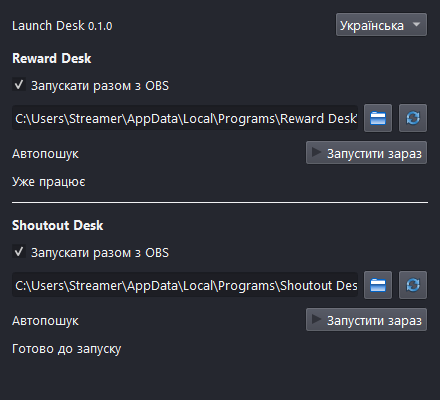
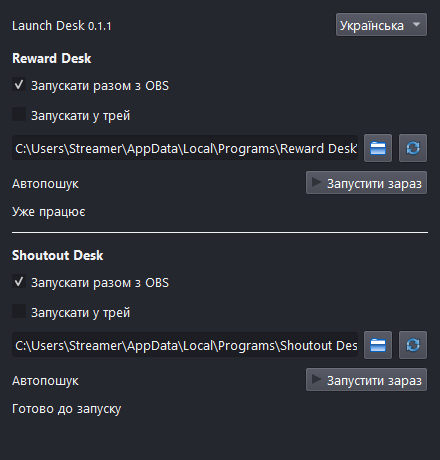
Add per-app tray startup selection with preserved settings

diff --git a/tests/tests.cpp b/tests/tests.cpp
@@ -23,6 +23,10 @@ int main(int argc, char **argv) {
 	QString language = "ru";
 	check(entries.size() == 2 && !entries[0].enabled && !entries[1].enabled, "no unsolicited autostart");
 	check(loadConfig(file, entries, language), "new settings");
+	check(!entries[0].inTray && !entries[1].inTray, "new profiles default to normal windows");
+	check(launchArguments(entries[0]) == "--start-window", "normal window argument");
+	entries[0].inTray = true;
+	check(launchArguments(entries[0]) == "--start-tray", "tray argument");
 	entries[0].path = "D:/Portable/RewardDesk.exe";
 	entries[0].automatic = false;
 	entries[0].enabled = true;
@@ -31,10 +35,35 @@ int main(int argc, char **argv) {
 	check(loadConfig(file, loaded, language) && language == "uk", "load language");
 	check(loaded[0].enabled && !loaded[0].automatic && loaded[0].path == entries[0].path, "manual path retained");
 	check(!loaded[1].enabled, "disabled state retained");
+	check(loaded[0].inTray && !loaded[1].inTray, "independent tray modes retained");
+	QFile legacy(file);
+	check(legacy.open(QIODevice::ReadOnly), "read migration fixture");
+	auto legacyObject = QJsonDocument::fromJson(legacy.readAll()).object(); legacy.close();
+	legacyObject["schema"] = 1;
+	QJsonArray oldRows;
+	for (auto value : legacyObject["apps"].toArray()) { auto row = value.toObject(); row.remove("inTray"); oldRows.append(row); }
+	legacyObject["apps"] = oldRows;
+	const auto legacyBytes = QJsonDocument(legacyObject).toJson();
+	check(legacy.open(QIODevice::WriteOnly) && legacy.write(legacyBytes) == legacyBytes.size(), "write version 1 fixture"); legacy.close();
+	check(loadConfig(file, loaded, language), "old profile accepted");
+	check(!loaded[0].inTray && loaded[1].inTray && loaded[0].enabled && !loaded[0].automatic && loaded[0].path == entries[0].path && language == "uk", "old profile preserves modes paths switches and language");
+	check(legacy.open(QIODevice::ReadOnly) && legacy.readAll() == legacyBytes, "loading never rewrites old profile"); legacy.close();
+	{
+		LaunchDock migrated(temp.path() + "/profile", "en");
+		auto *rewardTray = migrated.findChild<QCheckBox *>("reward-desk-tray");
+		auto *shoutoutTray = migrated.findChild<QCheckBox *>("shoutout-desk-tray");
+		check(rewardTray && shoutoutTray && !rewardTray->isChecked() && shoutoutTray->isChecked(), "legacy tray controls match previous behavior");
+		rewardTray->setChecked(true); shoutoutTray->setChecked(false);
+		check(loadConfig(file, loaded, language) && loaded[0].inTray && !loaded[1].inTray && loaded[0].enabled && loaded[0].path == entries[0].path, "checkboxes persist independently without changing autostart or path");
+	}
+	legacyObject["schema"] = 2;
+	check(legacy.open(QIODevice::WriteOnly), "write invalid mode fixture"); legacy.write(QJsonDocument(legacyObject).toJson()); legacy.close();
+	check(!loadConfig(file, loaded, language), "new schema without tray fields fails closed");
 	QFile corrupt(file); check(corrupt.open(QIODevice::WriteOnly), "corrupt fixture"); corrupt.write("{bad"); corrupt.close();
 	check(!loadConfig(file, loaded, language) && loaded[0].enabled, "corruption never silently resets settings");
 	LaunchDock broken(temp.path() + "/profile", "ru");
 	check(!broken.findChild<QCheckBox *>("reward-desk-enabled")->isEnabled(), "corrupt profile disables controls");
+	check(!broken.findChild<QCheckBox *>("reward-desk-tray")->isEnabled(), "corrupt profile disables tray mode");
 	check(corrupt.open(QIODevice::ReadOnly) && corrupt.readAll() == "{bad", "corrupt file preserved"); corrupt.close();
 	check(!validExecutable("cmd.exe") && !validExecutable("https://example.com/a.exe") && !validExecutable("\\\\server\\app.exe"), "non-local paths rejected");
 	const auto exe = QCoreApplication::applicationDirPath() + "/launch-fixture.exe";
@@ -44,7 +73,7 @@ int main(int argc, char **argv) {
 	check(startApp(AppEntry{"test", "test", "no.exe", "", temp.path() + "/no.exe"}) != "running", "missing executable not launched");
 	for (const auto locale : {"ru", "uk", "en"}) {
 		LaunchDock dock(temp.path() + "/ui", locale, true);
-		check(!dock.text("auto").isEmpty() && dock.text("auto") != "auto", "localized labels");
+		check(!dock.text("auto").isEmpty() && dock.text("auto") != "auto" && dock.text("tray") != "tray", "localized labels");
 		check(dock.findChild<QLineEdit *>("reward-desk-path")->isReadOnly(), "path cannot inject arguments");
 		dock.resize(320, 460); dock.show(); app.processEvents();
 		for (auto *button : dock.findChildren<QPushButton *>()) check(button->geometry().right() <= button->parentWidget()->width(), "narrow dock controls fit");

diff --git a/src/dock.cpp b/src/dock.cpp
@@ -14,6 +14,7 @@
 QString LaunchDock::text(const QString &key) const {
 	static const QMap<QString, std::array<QString, 3>> copy = {
 		{"auto", {"Запускать вместе с OBS", "Запускати разом з OBS", "Start with OBS"}},
+		{"tray", {"Запускать в трей", "Запускати у трей", "Start in system tray"}},
 		{"detected", {"Автопоиск", "Автопошук", "Auto-detected"}},
 		{"manual", {"Выбран вручную", "Вибрано вручну", "Manual selection"}},
 		{"browse", {"Выбрать EXE", "Вибрати EXE", "Choose EXE"}},
@@ -48,7 +49,7 @@ LaunchDock::LaunchDock(const QString &profile, const QString &locale, bool previ
 	layout->setSpacing(12);
 	setMinimumWidth(280);
 	auto *heading = new QHBoxLayout;
-	auto *title = new QLabel("Launch Desk <small>0.1.0</small>");
+	auto *title = new QLabel("Launch Desk <small>0.1.1</small>");
 	heading->addWidget(title, 1);
 	languages = new QComboBox;
 	languages->setObjectName("language");
@@ -71,6 +72,11 @@ LaunchDock::LaunchDock(const QString &profile, const QString &locale, bool previ
 		row.enabled->setChecked(entry.enabled);
 		row.enabled->setEnabled(valid);
 		section->addWidget(row.enabled);
+		row.inTray = new QCheckBox;
+		row.inTray->setObjectName(entry.id + "-tray");
+		row.inTray->setChecked(entry.inTray);
+		row.inTray->setEnabled(valid);
+		section->addWidget(row.inTray);
 		row.path = new QLineEdit(entry.path);
 		row.path->setObjectName(entry.id + "-path");
 		row.path->setReadOnly(true);
@@ -102,6 +108,7 @@ LaunchDock::LaunchDock(const QString &profile, const QString &locale, bool previ
 		layout->addLayout(section);
 		if (index == 0) { auto *line = new QFrame; line->setFrameShape(QFrame::HLine); layout->addWidget(line); }
 		connect(row.enabled, &QCheckBox::toggled, this, [this, index](bool value) { apps[index].enabled = value; persist(); });
+		connect(row.inTray, &QCheckBox::toggled, this, [this, index](bool value) { apps[index].inTray = value; persist(); });
 		connect(row.browse, &QPushButton::clicked, this, [this, index] {
 			const auto selected = QFileDialog::getOpenFileName(this, text("browse"), QFileInfo(apps[index].path).absolutePath(), apps[index].exe + " (" + apps[index].exe + ")");
 			if (selected.isEmpty()) return;
@@ -132,7 +139,7 @@ void LaunchDock::persist() {
 	if (!saveConfig(file, apps, language)) {
 		valid = false;
 		notice->setText(text("saveError")); notice->show();
-		for (auto &row : rows) { row.enabled->setEnabled(false); row.browse->setEnabled(false); row.detect->setEnabled(false); row.launch->setEnabled(false); }
+		for (auto &row : rows) { row.enabled->setEnabled(false); row.inTray->setEnabled(false); row.browse->setEnabled(false); row.detect->setEnabled(false); row.launch->setEnabled(false); }
 	}
 }
 
@@ -142,6 +149,7 @@ void LaunchDock::refresh() {
 	for (int i = 0; i < rows.size(); ++i) {
 		auto &row = rows[i];
 		row.enabled->setText(text("auto"));
+		row.inTray->setText(text("tray"));
 		row.path->setText(apps[i].path); row.path->setCursorPosition(0); row.path->setToolTip(apps[i].path);
 		row.path->setAccessibleName(apps[i].name + " EXE");
 		row.mode->setText(text(apps[i].automatic ? "detected" : "manual"));

diff --git a/src/launcher.cpp b/src/launcher.cpp
@@ -84,7 +84,8 @@ bool loadConfig(const QString &file, QVector<AppEntry> &apps, QString &language)
 	QJsonParseError error;
 	const auto doc = QJsonDocument::fromJson(input.readAll(), &error);
 	const auto object = doc.object();
-	if (error.error != QJsonParseError::NoError || object.value("schema").toInt() != 1 || !object.value("apps").isArray()) return false;
+	const int schema = object.value("schema").toInt();
+	if (error.error != QJsonParseError::NoError || (schema != 1 && schema != 2) || !object.value("apps").isArray()) return false;
 	auto next = defaults();
 	const auto records = object.value("apps").toArray();
 	if (records.size() != next.size()) return false;
@@ -97,6 +98,8 @@ bool loadConfig(const QString &file, QVector<AppEntry> &apps, QString &language)
 			app.path = row.value("path").toString();
 			app.enabled = row.value("enabled").toBool();
 			app.automatic = row.value("automatic").toBool();
+			if (schema == 2 && !row.value("inTray").isBool()) return false;
+			app.inTray = schema == 1 ? app.id == "shoutout-desk" : row.value("inTray").toBool();
 			++matches;
 		}
 		if (matches != 1) return false;
@@ -112,9 +115,9 @@ bool loadConfig(const QString &file, QVector<AppEntry> &apps, QString &language)
 bool saveConfig(const QString &file, const QVector<AppEntry> &apps, const QString &language) {
 	if (!QDir().mkpath(QFileInfo(file).absolutePath())) return false;
 	QJsonArray rows;
-	for (const auto &app : apps) rows.append(QJsonObject{{"id", app.id}, {"path", app.path}, {"enabled", app.enabled}, {"automatic", app.automatic}});
+	for (const auto &app : apps) rows.append(QJsonObject{{"id", app.id}, {"path", app.path}, {"enabled", app.enabled}, {"automatic", app.automatic}, {"inTray", app.inTray}});
 	QSaveFile output(file);
-	const auto bytes = QJsonDocument(QJsonObject{{"schema", 1}, {"language", language}, {"apps", rows}}).toJson();
+	const auto bytes = QJsonDocument(QJsonObject{{"schema", 2}, {"language", language}, {"apps", rows}}).toJson();
 	return output.open(QIODevice::WriteOnly) && output.write(bytes) == bytes.size() && output.commit();
 }
 
@@ -186,6 +189,11 @@ static HRESULT launchThroughDesktop(const QString &path, const QString &argument
 	return hr;
 }
 
+// Explicit arguments override only this launch, never the application's saved preference.
+QString launchArguments(const AppEntry &entry) {
+	return entry.inTray ? "--start-tray" : "--start-window";
+}
+
 // A per-product mutex serializes launches across multiple OBS instances.
 QString startApp(const AppEntry &entry) {
 	if (!sameDesktopUser()) return "identity";
@@ -204,7 +212,7 @@ QString startApp(const AppEntry &entry) {
 		const HRESULT initialized = CoInitializeEx(nullptr, COINIT_APARTMENTTHREADED);
 		if (FAILED(initialized) && initialized != RPC_E_CHANGED_MODE) result = "failed";
 		else {
-			const auto hr = launchThroughDesktop(entry.path, entry.id == "shoutout-desk" ? "--start-tray" : "");
+			const auto hr = launchThroughDesktop(entry.path, launchArguments(entry));
 			result = SUCCEEDED(hr) ? "starting" : "failed";
 			if (SUCCEEDED(hr)) {
 				for (int attempt = 0; attempt < 50; ++attempt) {

diff --git a/src/launcher.hpp b/src/launcher.hpp
@@ -8,6 +8,7 @@ struct AppEntry {
 	QString path;
 	bool enabled = false;
 	bool automatic = true;
+	bool inTray = false;
 };
 
 QVector<AppEntry> defaults();
@@ -19,3 +20,4 @@ bool saveConfig(const QString &file, const QVector<AppEntry> &apps, const QStrin
 enum class ProcessState { Absent, Running, DifferentCopy, Unknown };
 ProcessState processState(const QString &path);
 QString startApp(const AppEntry &entry);
+QString launchArguments(const AppEntry &entry);

diff --git a/tests/preview.cpp b/tests/preview.cpp
@@ -23,7 +23,7 @@ int main(int argc, char **argv) {
 	LaunchDock dock("", args.value(1, "en"), true);
 	dock.setAttribute(Qt::WA_DontShowOnScreen);
 	dock.setWindowTitle("Launch Desk OBS");
-	dock.resize(440, 400);
+	dock.resize(440, 460);
 	dock.show();
 	QTimer::singleShot(100, &app, [&] {
 		const auto path = args.value(2);

diff --git a/src/dock.hpp b/src/dock.hpp
@@ -18,7 +18,7 @@ public:
 	QString text(const QString &key) const;
 private:
 	struct Row {
-		QCheckBox *enabled;
+		QCheckBox *enabled, *inTray;
 		QLabel *mode, *status;
 		QLineEdit *path;
 		QPushButton *browse, *detect, *launch;

diff --git a/README.md b/README.md
@@ -15,6 +15,7 @@ A small OBS dock that starts the standalone **Reward Desk** and **Shoutout Desk*
 3. Open OBS, then **Docks > Launch Desk**. Registered installations are detected automatically.
 4. For a portable or moved app, choose its **RewardDesk.exe** or **ShoutoutDesk.exe** using the folder button. Do not select the installer or an OBS plugin.
 5. Enable **Start with OBS** separately for each app. Initially both switches are off. Changes are saved immediately and take effect at the next OBS start. **Start now** launches without restarting OBS.
+6. Choose **Start in system tray** independently for each app. Checked opens only the tray icon; unchecked opens the normal window. Requires Reward Desk 0.10.2+ and Shoutout Desk 0.7.1+.
 
 ## Behavior
 
@@ -22,7 +23,7 @@ A small OBS dock that starts the standalone **Reward Desk** and **Shoutout Desk*
 - Checks running processes before launching; skips an existing instance or another copy of the same executable name.
 - Automatic paths are detected on each OBS start. Manually selected paths are preserved; moving a portable folder requires selecting its new EXE.
 - Uses the Windows Explorer desktop user, without requesting administrator rights for the apps. If OBS runs as a different Windows user, launching is blocked to avoid opening the wrong profile.
-- Shoutout Desk opens in its tray mode. Reward Desk currently opens its normal window.
+- Each app can start normally or in the system tray. The selection also applies to **Start now** and never hides an app that is already running. Old 0.1.0 settings retain their previous modes until you change them.
 - Does not close apps when OBS exits, restart crashed apps in a loop, alter scenes, or control streaming/recording.
 - RU / UK / EN switch instantly. The dock follows the OBS theme.
 - Status means the **process** is running, not that Twitch is connected or a browser source is working. Check those inside each app.
@@ -39,7 +40,7 @@ For an OBS ZIP distribution with `portable_mode.txt` enabled, copy only `launch-
 
 Install a newer EXE over the old version with OBS closed, or replace the DLL from ZIP. Settings are preserved. Uninstallation removes plugin files, not settings or app data.
 
-Installed OBS settings: `%LOCALAPPDATA%\Launch Desk OBS\settings.json`. Only executable paths, two enable switches, detection mode and UI language are stored. Writes are atomic. A damaged or unsupported configuration is preserved and disables autostart instead of resetting it. Back up this file before manually editing or replacing it.
+Installed OBS settings: `%LOCALAPPDATA%\Launch Desk OBS\settings.json`. Only executable paths, autostart/tray switches, detection mode and UI language are stored. Writes are atomic. A damaged or unsupported configuration is preserved and disables autostart instead of resetting it. Back up this file before manually editing or replacing it.
 
 No Twitch credentials, reward databases, chat records, analytics, telemetry, network listener or automatic update service. The plugin makes **no network requests**. All application profiles remain owned by their original apps.
 

diff --git a/README.ru.md b/README.ru.md
@@ -13,13 +13,14 @@
 3. Откройте OBS → Док-панели → Launch Desk. Установленные приложения определятся автоматически.
 4. Если используется portable или другая папка, выберите **RewardDesk.exe** / **ShoutoutDesk.exe** кнопкой папки. Не выбирайте установщик или OBS-плагин.
 5. Включите «Запускать вместе с OBS» у нужных приложений. Изначально оба переключателя выключены. Настройки сохраняются сразу; автозапуск работает со следующего открытия OBS. Кнопка «Запустить сейчас» не требует перезапуска OBS.
+6. У каждого приложения выберите «Запускать в трей»: с галочкой будет только значок возле часов, без неё откроется обычное окно. Нужны Reward Desk 0.10.2+ и Shoutout Desk 0.7.1+.
 
 ## Что важно
 
 - Уже работающая программа или другая её копия повторно не запускается. Смена сцены или профиля OBS не перезапускает приложения.
 - Автоматический путь определяется заново при открытии OBS. Ручной путь сохраняется; после переноса portable выберите EXE снова.
 - Приложения запускаются через Проводник Windows без запроса прав администратора. Если OBS открыт под другим пользователем Windows, запуск блокируется, чтобы не открыть чужой профиль.
-- Shoutout Desk открывается в трее. Reward Desk пока открывает обычное окно.
+- Для каждого приложения независимо выбирается обычное окно или трей, в том числе для «Запустить сейчас». Уже работающие окна не скрываются. При обновлении с 0.1.0 прежний режим сохраняется до изменения галочки.
 - Закрытие OBS не закрывает приложения. Плагин не меняет сцены, не запускает эфир и не перезапускает упавшие приложения по кругу.
 - Статус «Уже работает» подтверждает процесс, а не соединение Twitch или работу источника OBS.
 - Русский, украинский и английский переключаются сразу; тема берётся из OBS.

diff --git a/README.uk.md b/README.uk.md
@@ -13,13 +13,14 @@
 3. Відкрийте OBS → Док-панелі → Launch Desk. Встановлені програми визначаються автоматично.
 4. Для portable або іншої папки виберіть **RewardDesk.exe** чи **ShoutoutDesk.exe** кнопкою папки, а не інсталятор чи OBS-плагін.
 5. Увімкніть «Запускати разом з OBS» окремо для кожної програми. Спочатку обидва перемикачі вимкнено. Зміни зберігаються одразу та діють із наступного запуску OBS. «Запустити зараз» працює без перезапуску OBS.
+6. Окремо виберіть «Запускати у трей»: з позначкою буде лише значок біля годинника, без неї відкриється звичайне вікно. Потрібні Reward Desk 0.10.2+ та Shoutout Desk 0.7.1+.
 
 ## Поведінка
 
 - Запущена програма або інша її копія повторно не відкривається. Зміна сцени чи профілю OBS не повторює запуск.
 - Автоматичний шлях перевіряється при відкритті OBS. Ручний шлях зберігається; після перенесення portable виберіть EXE знову.
 - Запуск через Провідник Windows без запиту прав адміністратора. Якщо OBS відкрито під іншим користувачем Windows, запуск блокується для захисту профілю.
-- Shoutout Desk відкривається у треї; Reward Desk поки відкриває звичайне вікно.
+- Для кожної програми можна вибрати звичайне вікно або трей, зокрема для «Запустити зараз». Уже відкриті вікна не приховуються. Після оновлення з 0.1.0 попередній режим зберігається до зміни позначки.
 - Закриття OBS не закриває програми. Плагін не змінює сцени, не починає ефір і не перезапускає програми циклічно після збою.
 - Статус підтверджує процес, а не з'єднання Twitch чи роботу джерела OBS.
 - RU / UK / EN перемикаються одразу; тема відповідає OBS.

diff --git a/CHANGELOG.md b/CHANGELOG.md
@@ -1,5 +1,12 @@
 # Changelog
 
+## 0.1.1 - 2026-11-03
+
+- Add a separate Start in system tray checkbox for each app, for both automatic and manual starts.
+- Explicit normal-window and tray launch modes with Reward Desk 0.10.2+ and Shoutout Desk 0.7.1+.
+- Preserve old executable paths, switches and previous startup behavior when reading 0.1.0 settings; write the upgraded format only after a user change.
+- Verify independent checkbox persistence, legacy settings and invalid configurations.
+
 ## 0.1.0 - 2026-11-03
 
 - New independent OBS dock for starting Reward Desk and Shoutout Desk when OBS finishes loading.
